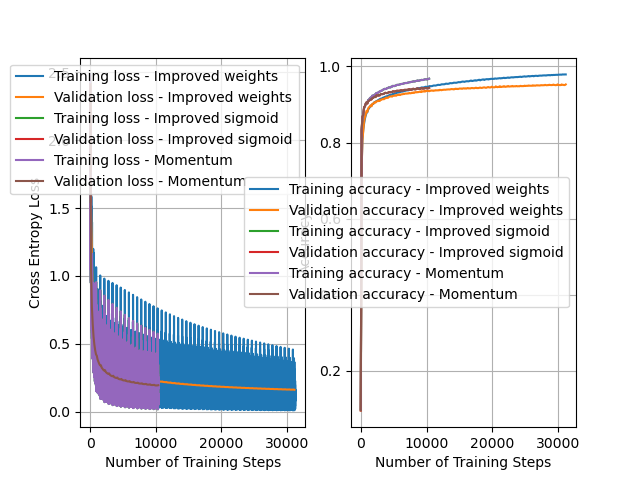
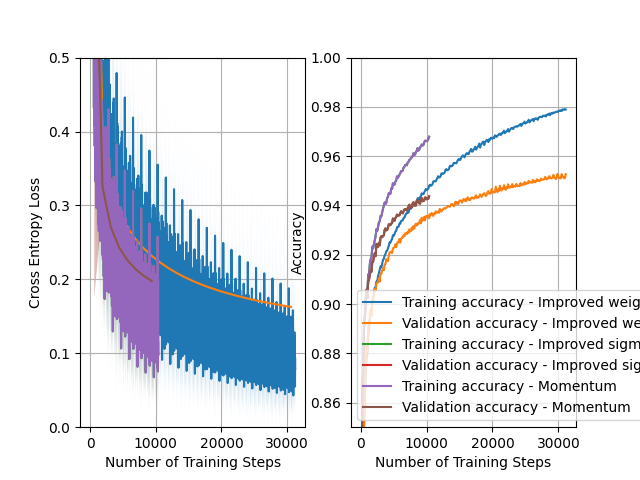
task 4ab done

diff --git a/assignment2/trainer.py b/assignment2/trainer.py
@@ -49,9 +49,7 @@ class BaseTrainer:
         """
         pass
 
-    def train(
-            self,
-            num_epochs: int):
+    def train(self, num_epochs: int, early_stopping_threshold: int = 10):
         """
         Training loop for model.
         Implements stochastic gradient descent with num_epochs passes over the train dataset.
@@ -63,20 +61,13 @@ class BaseTrainer:
         num_batches_per_epoch = self.X_train.shape[0] // self.batch_size
         num_steps_per_val = num_batches_per_epoch // 5
         # A tracking value of loss over all training steps
-        train_history = dict(
-            loss={},
-            accuracy={}
-        )
-        val_history = dict(
-            loss={},
-            accuracy={}
-        )
-        prev_losses = []
+        train_history = dict(loss={}, accuracy={})
+        val_history = dict(loss={}, accuracy={})
+        best_val_loss = float('inf')
         counter = 0
         global_step = 0
         for epoch in range(num_epochs):
-            train_loader = utils.batch_loader(
-                self.X_train, self.Y_train, self.batch_size, shuffle=self.shuffle_dataset)
+            train_loader = utils.batch_loader(self.X_train, self.Y_train, self.batch_size, shuffle=self.shuffle_dataset)
             for X_batch, Y_batch in iter(train_loader):
                 loss = self.train_step(X_batch, Y_batch)
                 # Track training loss continuously
@@ -88,23 +79,17 @@ class BaseTrainer:
                     train_history["accuracy"][global_step] = accuracy_train
                     val_history["loss"][global_step] = val_loss
                     val_history["accuracy"][global_step] = accuracy_val
-                    # TODO: Implement early stopping (copy from last assignment)
-                    #Comparing to the last 3 validation losses, instead of 20 as last assignment
-                    if len(prev_losses) == 3:
-                        min_val = min(prev_losses)
-                        current = val_loss
-                        if current > min_val:
-                            counter += 1
-                            if counter == 3:
-                                print(f"Stopping at epoch  {epoch}")
-                                return train_history, val_history
-                        else:
-                            #print(counter)
-                            counter = 0
-                        prev_losses.pop(0)
-                        prev_losses.append(val_loss)
-
+                    
+                    # Early stopping
+                    if val_loss < best_val_loss:
+                        best_val_loss = val_loss
+                        counter = 0
                     else:
-                        prev_losses.append(val_loss)
+                        counter += 1
+                    if counter >= early_stopping_threshold:
+                        print(f"Early stopping at epoch {epoch}")
+                        return train_history, val_history
+                        
                 global_step += 1
         return train_history, val_history
+

diff --git a/assignment2/task4.py b/assignment2/task4.py
@@ -1,0 +1,74 @@
+import utils
+import matplotlib.pyplot as plt
+from task2a import pre_process_images, one_hot_encode, SoftmaxModel, cross_entropy_loss
+from task2 import SoftmaxTrainer, calculate_accuracy
+
+def main():
+    # hyperparameters DO NOT CHANGE IF NOT SPECIFIED IN ASSIGNMENT TEXT
+    num_epochs = 5
+    learning_rate = .02  #Edited for 3c
+    batch_size = 32
+    neurons = [32, 64, 128]
+    momentum_gamma = .9  # Task 3 hyperparameter
+    shuffle_data = True
+
+    use_improved_sigmoid = True
+    use_improved_weight_init = True
+    use_momentum = True
+    use_relu = False
+
+    # Load dataset
+    X_train, Y_train, X_val, Y_val = utils.load_full_mnist()
+    X_train = pre_process_images(X_train)
+    X_val = pre_process_images(X_val)
+    Y_train = one_hot_encode(Y_train, 10)
+    Y_val = one_hot_encode(Y_val, 10)
+
+
+    for neuron in neurons:
+        model = SoftmaxModel(
+            [neuron, 10],
+            use_improved_sigmoid,
+            use_improved_weight_init,
+            use_relu)
+        trainer = SoftmaxTrainer(
+            momentum_gamma, use_momentum,
+            model, learning_rate, batch_size, shuffle_data,
+            X_train, Y_train, X_val, Y_val,
+        )
+
+        train_history, val_history = trainer.train(num_epochs)
+        #print accuracy and loss
+        print("Neuron: ", neuron)
+        print("Final Train Cross Entropy Loss:", cross_entropy_loss(Y_train, model.forward(X_train)))
+        print("Final Validation Cross Entropy Loss:", cross_entropy_loss(Y_val, model.forward(X_val)))
+        print("Train accuracy:", calculate_accuracy(X_train, Y_train, model))
+        print("Validation accuracy:", calculate_accuracy(X_val, Y_val, model))
+
+        # Plot loss
+        # plt.subplot(1, 2, 1)
+        # utils.plot_loss(train_history["loss"], neuron, npoints_to_average=10)
+        # utils.plot_loss(val_history["loss"], neuron, npoints_to_average=10)
+        # plt.ylabel("Cross Entropy Loss")
+        # plt.xlabel("Number of Training Steps")
+        # plt.ylim([0.0, .5])
+        # #plt.legend()
+        # plt.grid(True)
+        
+
+        plt.subplot(1, 1, 1)
+        utils.plot_loss(val_history["accuracy"], neuron)
+        plt.ylabel("Accuracy")
+        plt.xlabel("Number of Training Steps")
+        plt.ylim([0.85, 1.00])
+        plt.legend()
+        plt.grid(True)
+    
+    plt.savefig("task4ab.png")
+    plt.show()
+
+
+
+
+if __name__ == "__main__":
+    main()

diff --git a/assignment2/task2a.py b/assignment2/task2a.py
@@ -82,9 +82,9 @@ class SoftmaxModel:
 
         #Edited
         if use_improved_weight_init:
-            self.ws = [np.random.normal(0, 1/np.sqrt(self.I), (785, 64)), np.random.normal(0, 1/np.sqrt(64), (65, 10))]
+            self.ws = [np.random.normal(0, 1/np.sqrt(self.I), (785, neurons_per_layer[0])), np.random.normal(0, 1/np.sqrt(neurons_per_layer[0]), (neurons_per_layer[0]+1, 10))]
         else:
-            self.ws = [np.random.uniform(-1, 1, (785, 64)), np.random.uniform(-1, 1, (65, 10))]
+            self.ws = [np.random.uniform(-1, 1, (785, neurons_per_layer[0])), np.random.uniform(-1, 1, (neurons_per_layer[0]+1, 10))]
         
         self.grads = [None for i in range(len(self.ws))]
 
@@ -106,7 +106,7 @@ class SoftmaxModel:
         W_output = self.ws[1].T      #[10, 65] 
         
         self.z_hidden = W_hidden @ X.T                                                              #[64, 785] @ [785, N] = [64, N] 
-        self.a_hidden = self.sigmoid(self.z_hidden)                                                      #[64, N]
+        self.a_hidden = self.sigmoid(self.z_hidden)                                                 #[64, N]
         
         self.a_hidden = np.append(self.a_hidden, np.ones((1, self.a_hidden.shape[1])), axis=0)      #[65, N]
         

diff --git a/assignment2/task3.py b/assignment2/task3.py
@@ -47,11 +47,12 @@ def main():
 
         # Plot loss
         plt.subplot(1, 2, 1)
-        utils.plot_loss(train_history["loss"], "Training loss - " + name)
-        utils.plot_loss(val_history["loss"], "Validation loss - " + name)
+        utils.plot_loss(train_history["loss"], "Training loss - " + name, npoints_to_average=10)
+        utils.plot_loss(val_history["loss"], "Validation loss - " + name, npoints_to_average=10)
         plt.ylabel("Cross Entropy Loss")
         plt.xlabel("Number of Training Steps")
-        plt.legend()
+        plt.ylim([0.0, .5])
+        #plt.legend()
         plt.grid(True)
         
 
@@ -60,6 +61,7 @@ def main():
         utils.plot_loss(val_history["accuracy"], "Validation accuracy - " + name)
         plt.ylabel("Accuracy")
         plt.xlabel("Number of Training Steps")
+        plt.ylim([0.85, 1.0])
         plt.legend()
         plt.grid(True)
     

diff --git a/assignment2/create_submission_zip.py b/assignment2/create_submission_zip.py
@@ -23,6 +23,7 @@ files_to_include = {
     "task2": [".py"],
     "task2a": [".py"],
     "task3": [".py"],
+    "task4": [".py"],
     "task4c": [".py"],
     "trainer": [".py"],
     "utils": [".py"],
